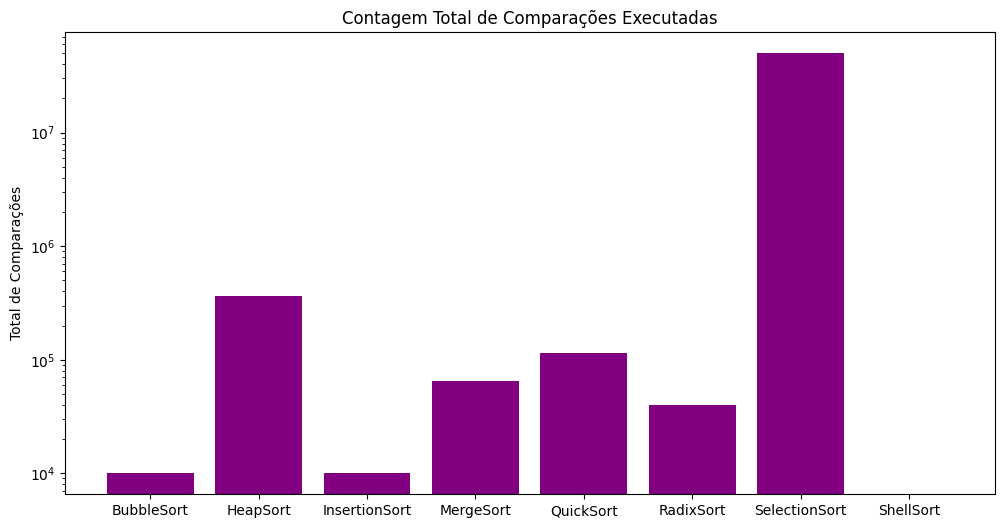
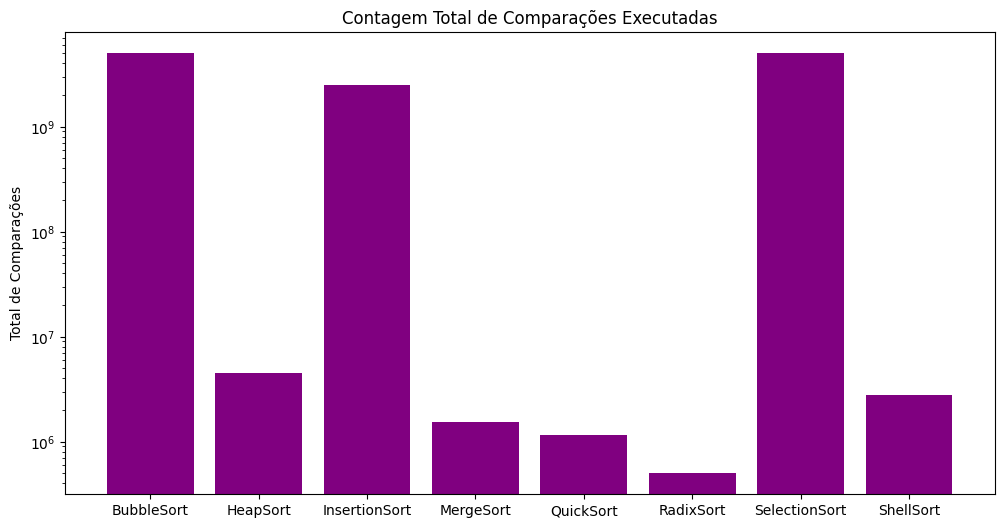
Add tempos de execução e graficos

diff --git a/main.py b/main.py
@@ -49,9 +49,9 @@ grafico = geraGrafico()
 #lista = list1k.lista1k()
 #lista = list10k.lista10k()
 #lista = list50k.lista50k()
-#lista = list100k.lista100k()
+lista = list100k.lista100k()
 #lista = list1kOrdenada.listaOrdenada1k()
-lista = list10kOrdenada.listaOrdenada10k()
+#lista = list10kOrdenada.listaOrdenada10k()
 #lista = list50kOrdenada.listaOrdenada50k()
 #lista = list100kOrdenada.listaOrdenada100k()
 
@@ -198,6 +198,7 @@ descricaoAlgoritmos = [
     "HeapSort",
     "InsertionSort",
     "MergeSort",
+    
     "QuickSort",
     "RadixSort",
     "SelectionSort",
